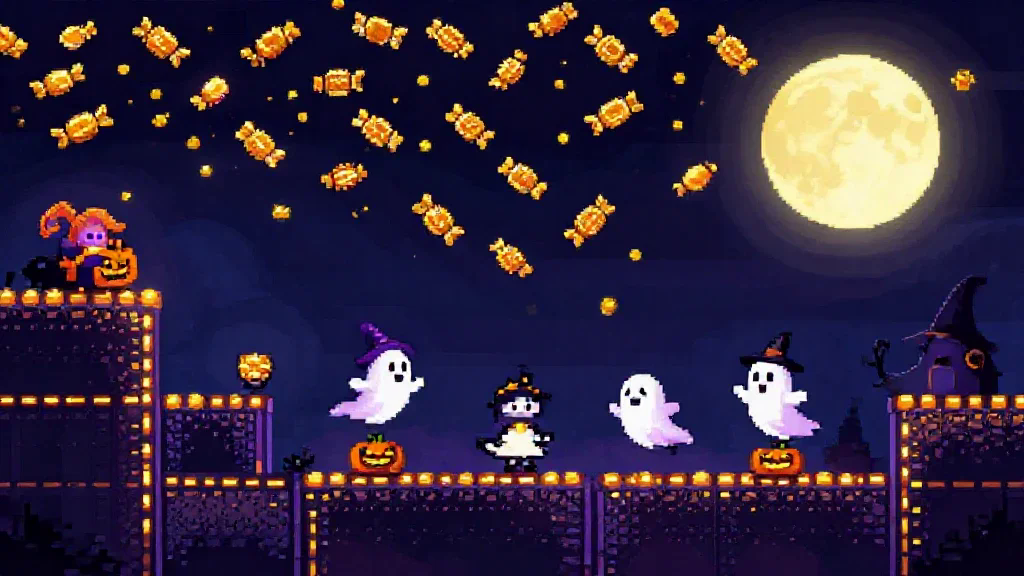
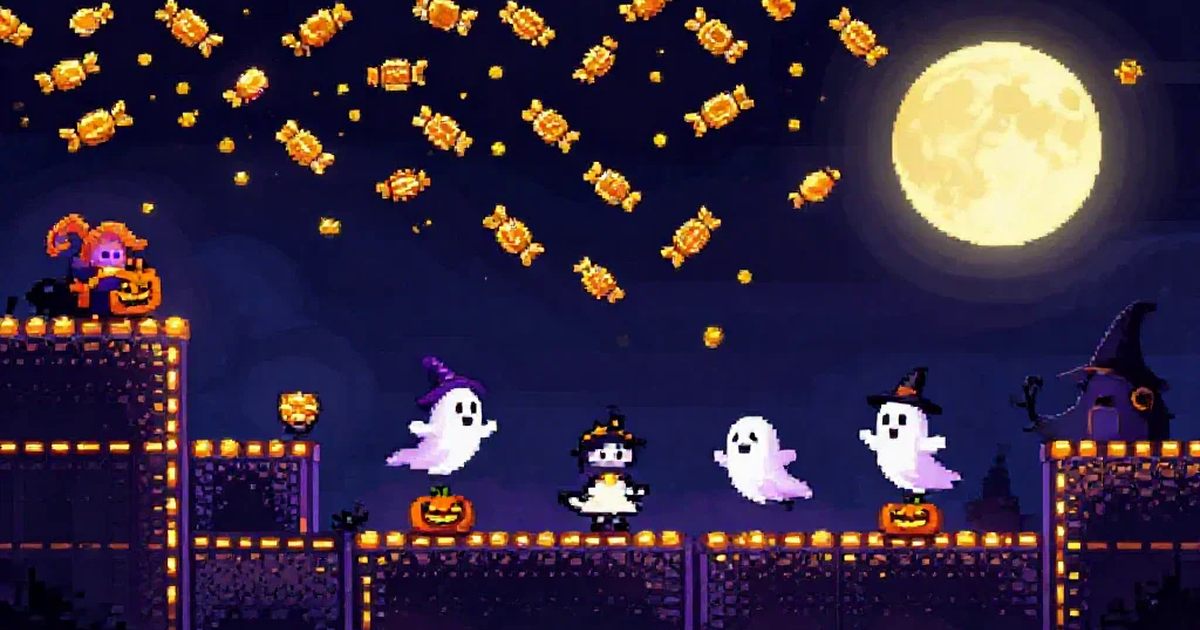
Open Graph : image 1200 x 630 et metadonnees completes

diff --git a/index.html b/index.html
@@ -9,13 +9,17 @@
     <meta property="og:type" content="website" />
     <meta property="og:title" content="Sac de Bonbons : La Ruée Sucrée : Un max de friandises avant l'aube" />
     <meta property="og:description" content="Sac de Bonbons : le vertical jumper rétro d'Halloween. Costumes déblocables, bonbons dorés et multiplicateurs pour remplir ton sac avant les fantômes." />
-    <meta property="og:image" content="https://games.hylst.fr/sacdebonbons/og-image.png" />
+    <meta property="og:image" content="https://games.hylst.fr/sacdebonbons/og-image.png?v=2" />
+    <meta property="og:image:type" content="image/png" />
+    <meta property="og:image:width" content="1200" />
+    <meta property="og:image:height" content="630" />
+    <meta property="og:image:alt" content="Sac de Bonbons" />
     <meta property="og:url" content="https://games.hylst.fr/sacdebonbons/" />
     <meta property="og:site_name" content="Hylst.Games" />
     <meta name="twitter:card" content="summary_large_image" />
     <meta name="twitter:title" content="Sac de Bonbons : La Ruée Sucrée : Un max de friandises avant l'aube" />
     <meta name="twitter:description" content="Sac de Bonbons : le vertical jumper rétro d'Halloween. Costumes déblocables, bonbons dorés et multiplicateurs pour remplir ton sac avant les fantômes." />
-    <meta name="twitter:image" content="https://games.hylst.fr/sacdebonbons/og-image.png" />
+    <meta name="twitter:image" content="https://games.hylst.fr/sacdebonbons/og-image.png?v=2" />
     <meta name="robots" content="index, follow" />
     <link rel="canonical" href="https://games.hylst.fr/sacdebonbons/" />
     <link rel="icon" type="image/png" href="favicon.png" />
